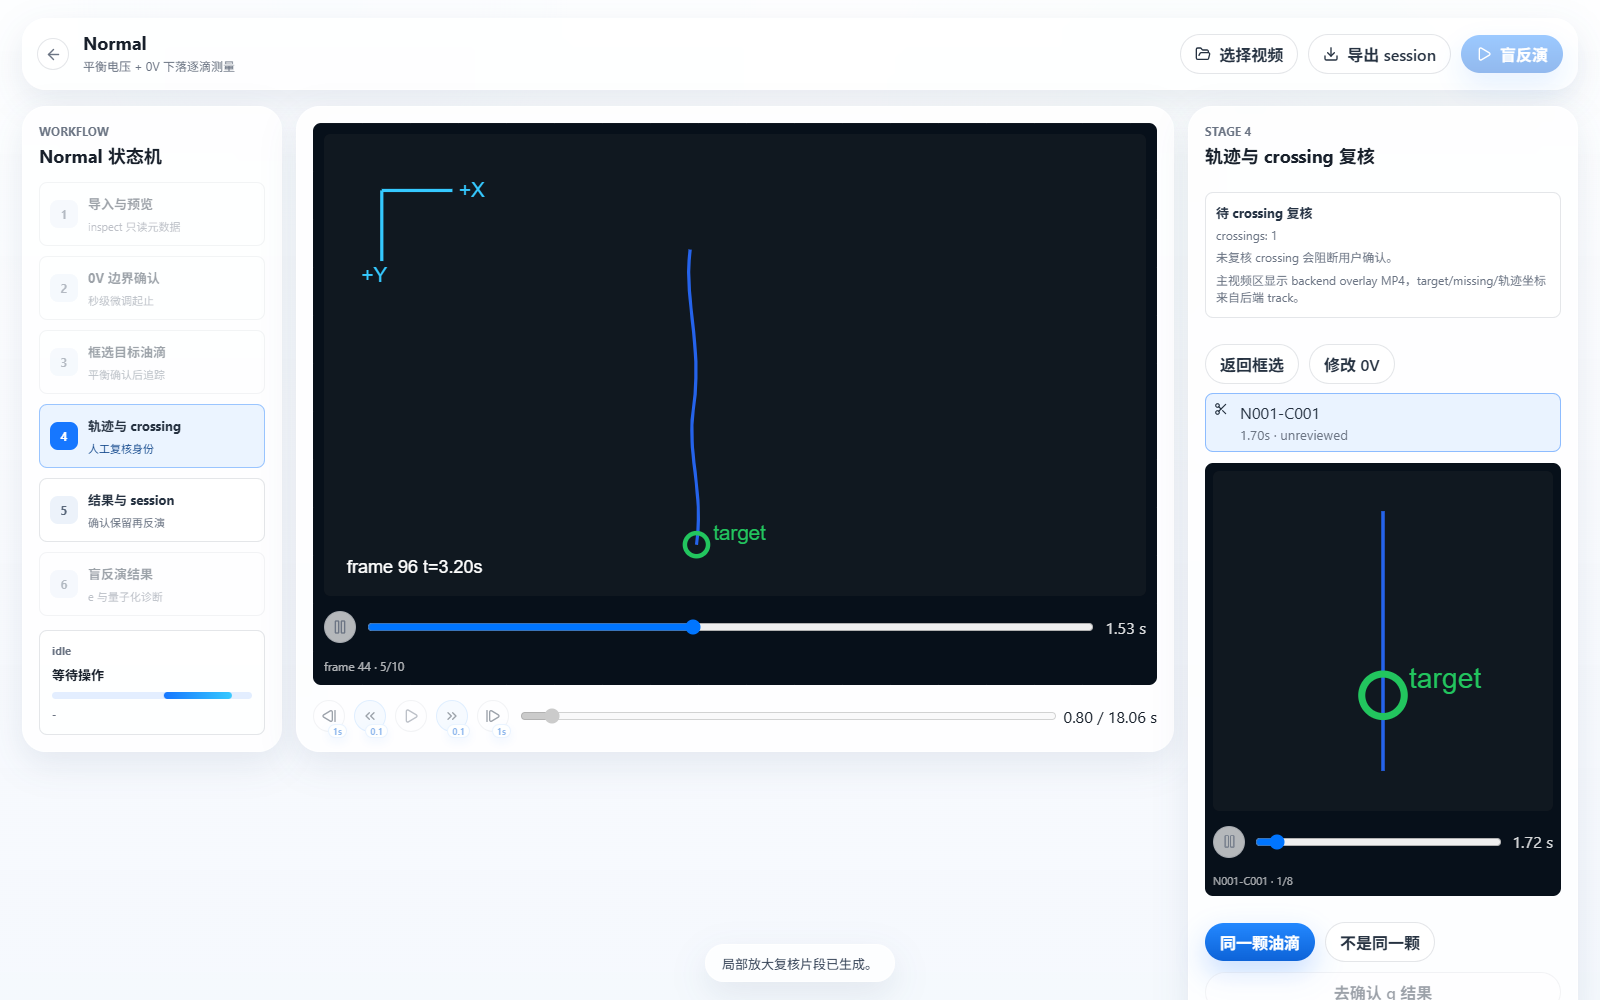
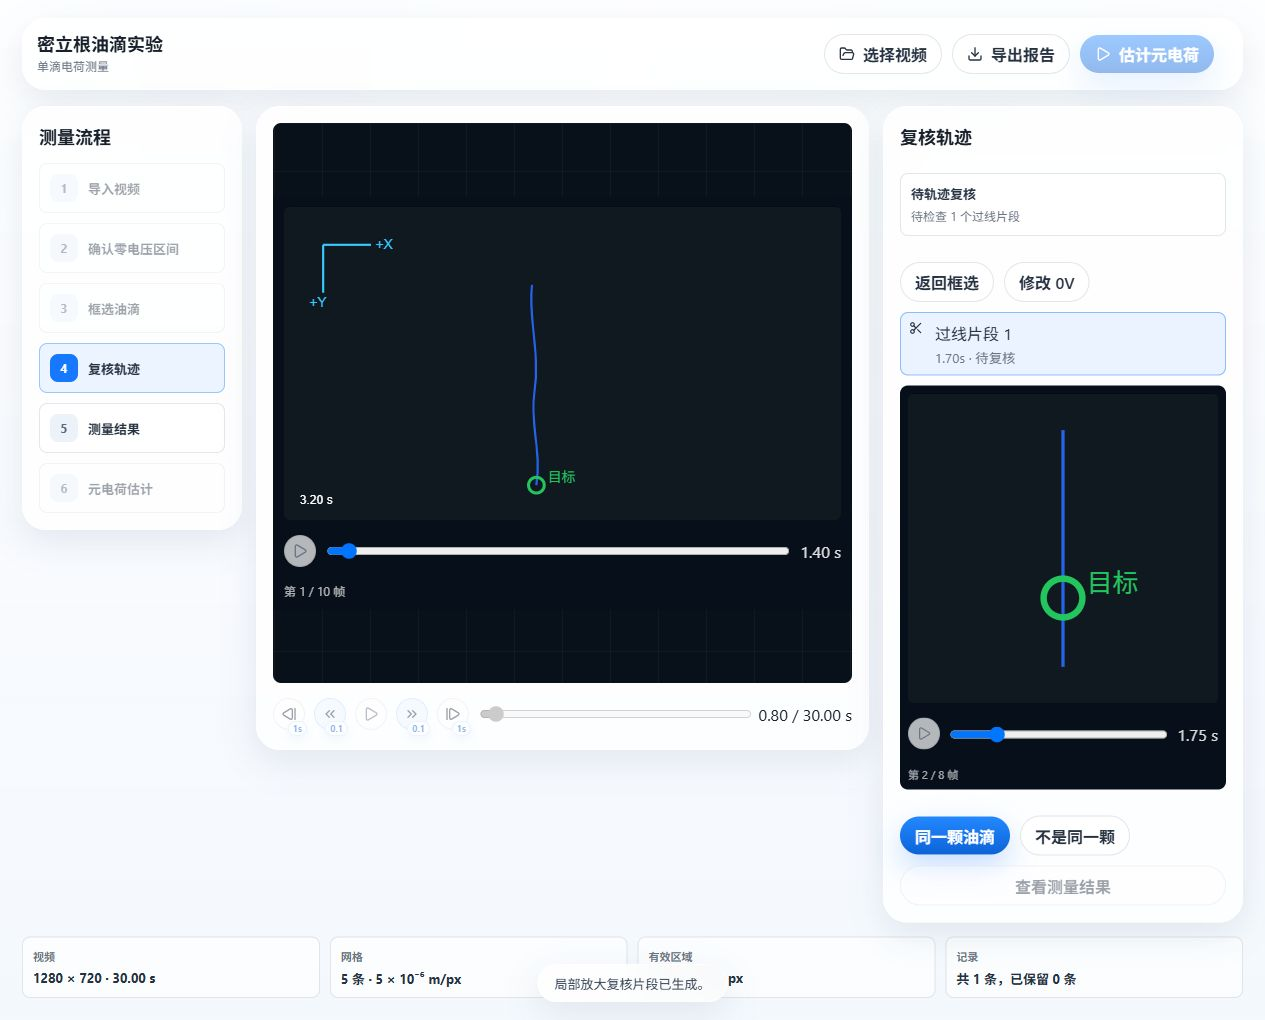
Refresh README screenshots and simplify project introduction

diff --git a/README.md b/README.md
@@ -1,145 +1,96 @@
 # Millikan AI
 
-**A human-in-the-loop desktop instrument for the Millikan oil-drop experiment.**
+**Desktop software for the Millikan oil-drop experiment.**
 
 **Presented by Xinchen Lee & Minghao Yao**
 
 [![Release](https://img.shields.io/github/v/release/teddyli18000/AiForMillikan?style=flat-square&label=release)](https://github.com/teddyli18000/AiForMillikan/releases/latest)
 [![Windows](https://img.shields.io/badge/platform-Windows-2563eb?style=flat-square)](https://github.com/teddyli18000/AiForMillikan/releases/latest)
-[![Electron](https://img.shields.io/badge/desktop-Electron-111827?style=flat-square)](apps/desktop)
-[![Python](https://img.shields.io/badge/worker-Python-3776ab?style=flat-square)](src/millikan_ai)
+[![Electron](https://img.shields.io/badge/desktop-Electron-111827?style=flat-square)](normal/apps/desktop)
+[![Python](https://img.shields.io/badge/worker-Python-3776ab?style=flat-square)](normal/src/millikan_ai)
 
-Millikan AI turns a physics-course video experiment into an inspectable
-measurement workflow. The software suggests where to look, tracks one selected
-droplet, asks the experimenter to review ambiguous crossings, calculates a
-single-drop charge with an explicit uncertainty trace, and performs a blind
-integer-residual search after at least three accepted measurements.
+Millikan AI helps students measure oil drops from video. It guides the user
+through selecting a droplet, reviewing its trajectory, calculating its charge,
+and estimating the elementary charge from accepted measurements.
 
-It is designed as an assistant in normal mode, and an automatic reasearcher in experimental mode. User confirmation
-remains part of the scientific record.
+![Measurement workspace](media/screenshots/normal-workspace.png)
 
-We recommend using the normal mode. We are working hard to improve the accuracy of the experimental mode.
-
-![Millikan AI mode selection](docs/assets/readme/mode-selection.png)
+*Screenshots use built-in demo data.*
 
 ## Get the app
 
-- **Download:** [Millikan AI 1.0 for Windows](https://github.com/teddyli18000/AiForMillikan/releases/latest)
-- **Verify:** the release includes `Millikan-AI-Portable-1.0.0.exe.sha256`
+- **Download:** [Millikan AI 0.9.0 for Windows](https://github.com/teddyli18000/AiForMillikan/releases/tag/normal-v0.9.0)
+- **Verify:** the release includes `Millikan-AI-Normal-Portable-0.9.0.exe.sha256`
 - **Test video:** [open the Releases page](https://github.com/teddyli18000/AiForMillikan/releases/tag/videos) or [attached to each version](https://github.com/teddyli18000/AiForMillikan/releases/latest)
-- **Documentation:** [technical and academic documentation](docs/README.md)
+- **Documentation:** [Technical and academic documentation](normal/docs/README.md)
 
-The portable EXE is currently unsigned. Windows SmartScreen may therefore ask
-for confirmation even when the downloaded file matches the published SHA256.
+The portable EXE is unsigned, so Windows SmartScreen may ask for confirmation.
 
-## The Normal workflow
+## Measurement workflow
 
-`Normal` is the recommended product route. It follows the traditional
-balance-voltage plus `0 V` falling method while keeping every consequential
-choice visible.
+The measurement uses a balance voltage and the falling interval at `0 V`.
 
-![Video to elementary charge workflow](docs/assets/readme/pipeline.svg)
+![Video to elementary charge workflow](media/diagrams/pipeline.svg)
 
-1. Import a video by file picker or drag and drop.
-2. Review the automatically suggested `0 V` interval and adjust it in seconds.
-3. Confirm the balance voltage and select one droplet with a rectangle.
-4. Inspect the tracked trajectory and review every grid crossing.
-5. Review the fitted velocity, radius, charge, and included uncertainty source.
-6. Accept or reject the record. Repeat across droplets or videos.
-7. With at least three accepted charges, run the blind elementary-charge search.
+1. Import a video and confirm the `0 V` interval.
+2. Set the balance voltage and select one droplet.
+3. Review its trajectory and grid crossings.
+4. Check the fitted velocity, radius, charge, and uncertainty.
+5. Accept the result; repeat for other droplets or videos.
+6. Estimate the elementary charge from at least three accepted results.
 
-### Evidence before answers
+### Trajectory review
 
-The renderer does not invent tracking coordinates. Whole-trajectory and
-crossing-review frames are drawn by the Python backend in original video pixel
-coordinates, then played by the desktop interface.
+Review tracked positions and crossing assignments against the video.
 
-![Trajectory and crossing review](docs/assets/readme/tracking-review.png)
+![Trajectory and crossing review](media/screenshots/tracking-review.png)
 
-### A visible calculation chain
+### Charge calculation
 
-The single-drop result is not only a number. Stage 5 shows the measured inputs,
-linear fit, Cunningham correction, charge equation, and uncertainty propagation
-using values returned in the backend record.
+The calculation shows the fitted speed, Cunningham correction, radius, charge,
+and propagated fit uncertainty.
 
-![Single-drop charge calculation](docs/assets/readme/q-calculation.png)
+![Single-drop charge calculation](media/screenshots/q-calculation.png)
 
-### Blind inversion with diagnostics
+### Elementary-charge estimate
 
-Stage 6 reports the estimated elementary charge, standard uncertainty, reference
-percentage error, candidate integer assignments, and per-record residuals. With
-three records the result is explicitly marked exploratory.
+The estimate compares accepted drop charges with integer multiples of a
+candidate elementary charge. Results from three drops are exploratory.
 
-![Blind elementary-charge inversion](docs/assets/readme/inversion-results.png)
+![Blind elementary-charge inversion](media/screenshots/inversion-results.png)
 
-## Two routes, intentionally separated
+## Applications
 
 | Route | Purpose | Status |
 | --- | --- | --- |
 | **Normal** | One user-selected droplet at a time; human review; transient session; blind inversion | Recommended |
 | **Experimental** | Automatic multi-drop and multi-platform research pipeline | Experimental |
 
-The routes have separate frontend state, worker operations, backend modules,
-sessions, outputs, and tests. Normal does not call Experimental business logic
-as a shortcut.
+Each application has its own frontend, worker, and tests.
 
 ## Building the product
 
-This repository began as a physics-themed experiment and grew through repeated
-real-video failures. The visible workflow is the result of fixing the contracts
-underneath it, not only polishing screens.
+The diagram summarizes major changes during development.
 
-![Build journey from prototype to 1.0](docs/assets/readme/build-journey.svg)
+![Historical development milestones](media/diagrams/build-journey.svg)
 
-### Problems that changed the design
+### Design changes
 
-| Problem observed in real use | What changed |
+| Problem | Fix |
 | --- | --- |
-| Selection rectangles drifted away from the pointer | Video letterboxing and displayed-content offsets became part of the coordinate contract. |
-| Returning to edit restored an automatic suggestion | Confirmed boundaries and record snapshots became authoritative restore points. |
-| Frontend and backend advanced to different states | Video preparation state and post-tracking record status were separated and validated by worker operations. |
-| Local review MP4s appeared as black video controls | Crossing review moved to backend-generated frame sequences with a renderer-owned player. |
-| A second droplet reused `tracking` state | `normal.startNextDroplet` now resets the authoritative backend state before the UI returns to selection. |
-| Pressure and physical defaults disagreed across layers | The backend configuration became the only default source; Normal pressure is expressed in kPa. |
-| An empirical value was labelled `sigma_q` | The implementation moved to regression slope uncertainty and nonlinear `q(v)` propagation. |
-| Chinese progress text occasionally became mojibake | Worker pipes, decoders, exports, source files, and tests now share an explicit UTF-8 contract. |
-
-The detailed version-by-version record is kept in
-[docs/版本修复记录.md](docs/%E7%89%88%E6%9C%AC%E4%BF%AE%E5%A4%8D%E8%AE%B0%E5%BD%95.md).
+| Selection rectangles drifted | Compensate for video letterboxing. |
+| Confirmed intervals were lost on reopen | Restore the confirmed boundaries. |
+| Review clips failed to play | Generate and display review frames. |
+| A new droplet reused the previous track | Reset tracking before selecting again. |
+| Pressure values differed across screens | Use one physical-constant source and report pressure in kPa. |
+| `sigma_q` missed fit error | Propagate slope uncertainty through `q(v)`. |
 
 ## Run from source
 
-Prerequisites: Windows, Python 3.11+, and Node.js.
+Each application has its own setup and build instructions: [Normal](normal/README.md)
+and [Experimental](experimental/README.md).
 
-```powershell
-python -m venv .venv
-.venv\Scripts\python -m pip install --upgrade pip
-.venv\Scripts\python -m pip install -e . pytest
-cd apps\desktop
-npm install
-npm run dev
-```
-
-Build the portable application:
-
-```powershell
-cd apps\desktop
-npm run package
-```
-
-Run the complete validation suites:
-
-```powershell
-.venv\Scripts\python -m pytest tests -q --basetemp runs\pytest_tmp_work -o cache_dir=runs\pytest_cache_work
-cd apps\desktop
-npm test -- --run
-npm run build
-```
-
-Project dependencies belong in the local `.venv` and `apps/desktop/node_modules`;
-do not install them into a global Python or base Conda environment.
-
-## A two-person physics experiment
+## Contributors
 
 - [Xinchen Lee](https://github.com/teddyli18000) — product concept, workflow and
   system architecture, desktop application, scientific integration, and release
@@ -152,45 +103,32 @@ do not install them into a global Python or base Conda environment.
 
 ## Academic method
 
-For a user-confirmed balanced droplet, the electric force balances the effective
-weight. During the confirmed `0 V` interval, a linear fit to vertical position
-provides the falling speed. The Normal path applies the Cunningham correction,
-solves for droplet radius, and then calculates charge from the balance voltage.
+For a balanced droplet, electric force balances effective weight. A linear fit
+to its vertical position during the confirmed `0 V` interval gives the falling
+speed. The Cunningham correction is used to find the radius, then the balance
+voltage gives the droplet charge.
 
-The blind inversion scans candidate elementary charges, assigns each measured
-charge an integer multiplier, re-estimates the candidate with uncertainty
-weights, and repeats until the assignments stabilize or the iteration limit is
-reached.
+The blind inversion compares measured charges with integer multiples of a
+candidate elementary charge and refines the estimate using uncertainty weights.
 
 The derivations and contracts are documented in:
 
-- [Experiment method](docs/academic/experiment-method.md)
-- [Single-drop charge calculation](docs/academic/charge-measurement.md)
-- [Uncertainty model](docs/academic/uncertainty.md)
-- [Blind inversion](docs/academic/blind-inversion.md)
-- [Scientific boundaries](docs/academic/scientific-boundaries.md)
+- [Experiment method](normal/docs/academic/experiment-method.md)
+- [Single-drop charge calculation](normal/docs/academic/charge-measurement.md)
+- [Uncertainty model](normal/docs/academic/uncertainty.md)
+- [Blind inversion](normal/docs/academic/blind-inversion.md)
+- [Scientific boundaries](normal/docs/academic/scientific-boundaries.md)
 
 ## Scientific boundaries
 
-- The program does **not** automatically prove that a droplet was balanced; the
-  experimenter confirms that condition.
-- Normal 1.0 includes the random uncertainty from the velocity fit. The UI lists
-  physical uncertainty sources that are not yet included.
-- Three accepted charges permit an exploratory inversion, not a proof of charge
-  quantization.
-- Normal does not fit a continuous baseline model and therefore does not claim a
-  quantized-model victory.
-- Experimental quality filtering reports an untrained rule adapter, not a
-  trained ML model.
+- The experimenter confirms that the droplet is balanced.
+- `sigma_q` includes velocity-fit uncertainty, but not uncertainty in physical
+  parameters.
+- An inversion with three accepted charges is exploratory; it does not establish
+  charge quantization.
 
-Machine-readable artifacts remain available for audit and reproduction. See the
-[technical documentation](docs/technical/architecture.md) for architecture,
-state, tracking, encoding, packaging, and validation details.
-
-## Release
-
-The formal Windows build, checksum, release notes, and future sample-video
-assets are published on [GitHub Releases](https://github.com/teddyli18000/AiForMillikan/releases).
+See the [technical documentation](normal/docs/technical/architecture.md) for
+implementation details.
 
 ## License
 
